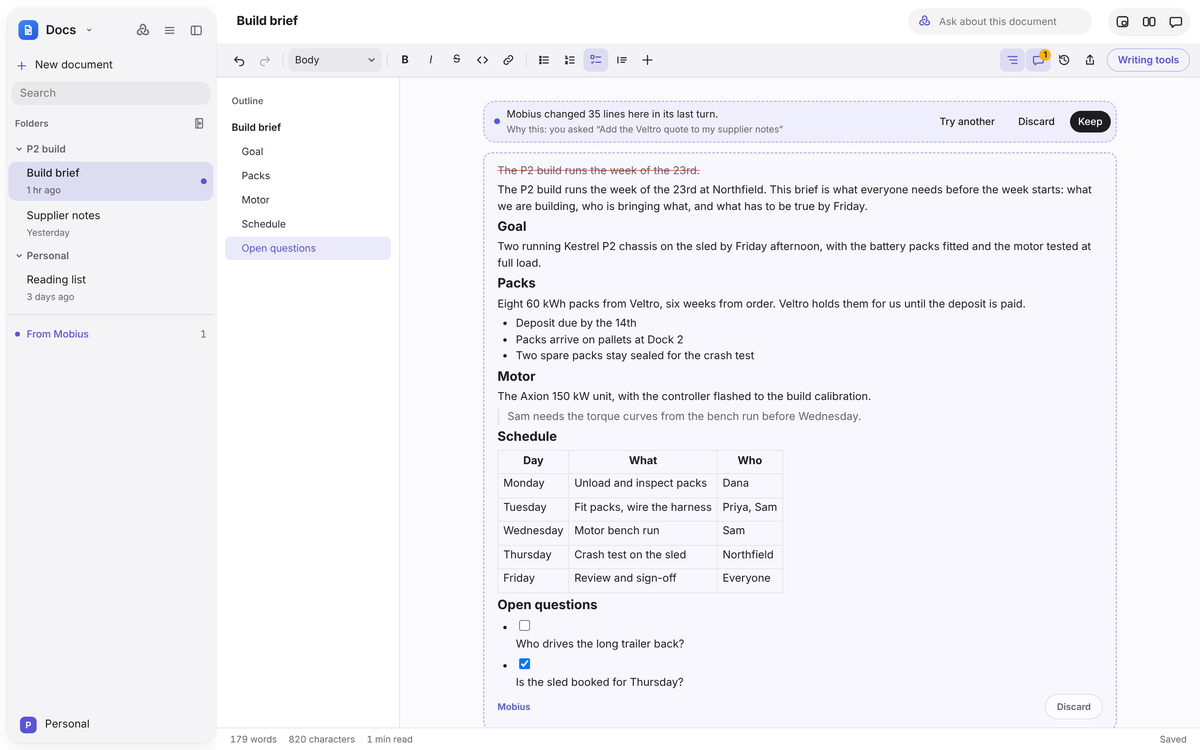
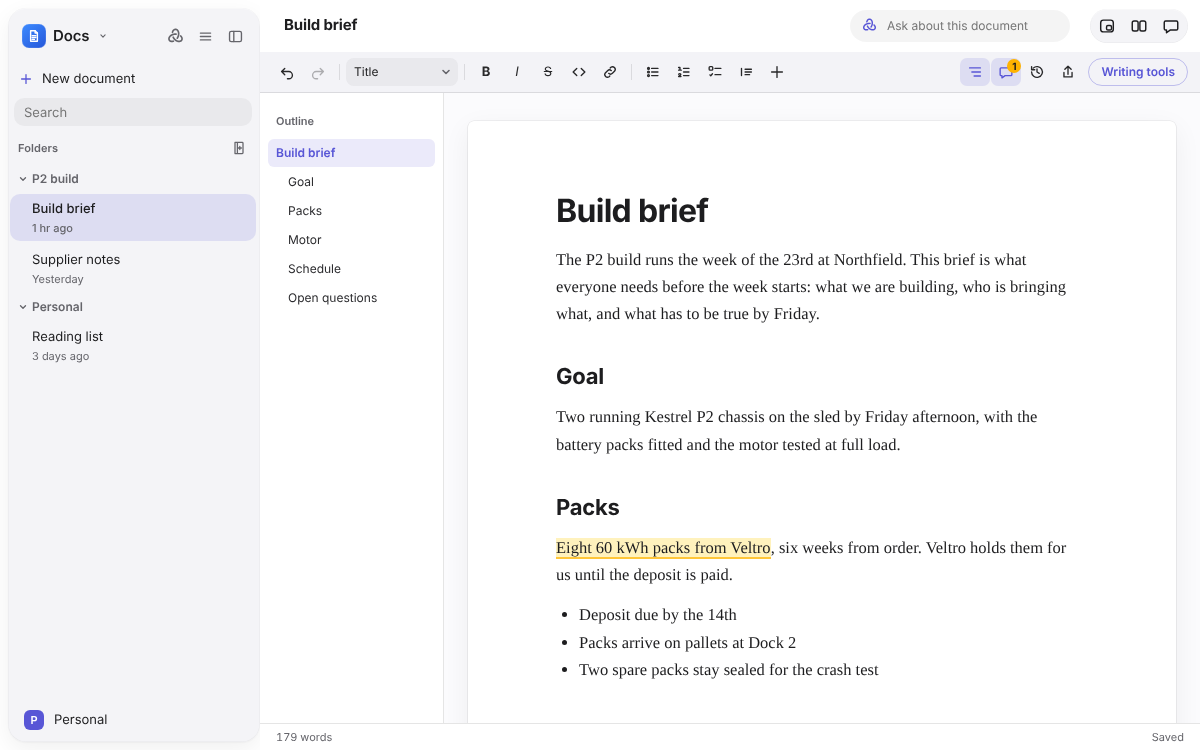
Docs app: open at the top, outline follows the page, one count in the foot, checklists in proposals
- A document opens with the cursor at its top, so the outline and toolbar no longer
  speak of its last heading; a change from Mobius keeps the cursor where it was.
- The outline marks the heading in view as the page scrolls, is slimmer, and folds
  away when there is no room.
- The foot shows one count at a time (words, characters, reading time), as in Pages.
- Checklists in Mobius's proposals draw the box beside its words.
- README screenshot and docs/apps updated.

Claude-Session: https://claude.ai/code/session_01VRGwo9t5tEbLhRtkFMEjKg

diff --git a/apps/desktop/src/Docs.tsx b/apps/desktop/src/Docs.tsx
@@ -28,7 +28,7 @@ import { CommentComposer, CommentList, commentLine, useNoteComments } from './No
 import { NoteHistory, dayOf } from './NoteHistory';
 import { copyFormatted, copyText, pageAsHtml } from './note-share';
 import { linkTo, pageOfLink, pagesMatching } from './note-links';
-import { docStats, activeHeading } from './docs-view';
+import { COUNT_ORDER, countLabel, docStats, headingInView, type CountShown } from './docs-view';
 import { ContextMenu, type ContextMenuItem } from './ContextMenu';
 import './docs.css';
 
@@ -74,6 +74,11 @@ const STYLES = [
 /** Whether the outline shows beside the page. Per device; shown unless hidden. */
 const OUTLINE_KEY = 'mobius.docs.outline';
 const readOutline = () => { try { return window.localStorage.getItem(OUTLINE_KEY) !== '0'; } catch { return true; } };
+
+/** What the foot counts, one at a time as in Pages: a click shows the next. Per device. */
+const COUNT_NEXT: Record<CountShown, string> = { words: 'characters', characters: 'reading time', minutes: 'words' };
+const COUNT_KEY = 'mobius.docs.count';
+const readCount = (): CountShown => { try { const v = window.localStorage.getItem(COUNT_KEY); return COUNT_ORDER.includes(v as CountShown) ? v as CountShown : 'words'; } catch { return 'words'; } };
 
 /** The words open comments are about, marked in the page. `quotes` is read when the plugin is told to look again. */
 const commentKey = new PluginKey<DecorationSet>('doc-comments');
@@ -389,32 +394,65 @@ export function DocEditor({ docs, autoFocus = true, review, onTool, onComments, 
     onBlur: () => setSelection(null),
   });
   // The document's text, from the store: put into the editor when it did not come from the editor itself.
+  // The document the cursor was last placed in: a document just opened starts at its top, as Pages opens one; the same
+  // document changed from elsewhere (by Mobius) keeps the cursor about where it was, so the page does not jump.
+  const placed = useRef<string | null>(null);
   useEffect(() => {
     if (!editor || editor.isDestroyed || docs.text === known.current) return;
     known.current = docs.text;
+    const opened = placed.current !== path;
+    const was = editor.state.selection.from;
+    const hadFocus = editor.view.hasFocus();
     editor.chain().setMeta('mobius-load', true).setContent(docs.text, { contentType: 'markdown', emitUpdate: false }).run();
-    // Not while a dialog is open (the launcher): a page that loads late must not take the keys from it.
-    if (autoFocus && !document.querySelector('dialog[open]')) {
-      // A new document: its title is chosen, so what is typed first names it.
-      const at = untitledHeading(editor);
-      if (at) editor.chain().focus().setTextSelection(at).run(); else editor.commands.focus('end');
+    placed.current = path;
+    if (opened) {
+      // At the top, focused or not, so the outline and the toolbar speak of the start of the document.
+      editor.view.dispatch(editor.state.tr.setSelection(TextSelection.atStart(editor.state.doc)).setMeta('mobius-load', true).setMeta('addToHistory', false));
+      section.current?.querySelector('.doc-scroll')?.scrollTo({ top: 0 });
     }
+    // Not while a dialog is open (the launcher): a page that loads late must not take the keys from it.
+    if (!autoFocus || document.querySelector('dialog[open]')) return;
+    // A new document: its title is chosen, so what is typed first names it.
+    const at = untitledHeading(editor);
+    if (at) editor.chain().focus().setTextSelection(at).run();
+    else if (opened) editor.chain().focus('start', { scrollIntoView: false }).run();
+    else if (hadFocus) editor.chain().focus(undefined, { scrollIntoView: false }).setTextSelection(Math.max(1, Math.min(was, editor.state.doc.content.size - 1))).run();
   }, [editor, docs.text, path]); // eslint-disable-line react-hooks/exhaustive-deps
   const quoteKey = quotesNow.current.join('\u0000');
   useEffect(() => { if (editor && !editor.isDestroyed) editor.view.dispatch(editor.state.tr.setMeta(commentKey, true)); }, [editor, quoteKey]);
   const view = useEditorState({
     editor,
     selector: ({ editor: e }) => {
-      if (!e) return { outline: [] as ReturnType<typeof headingsOf>, at: 0, chosen: '' };
+      if (!e) return { outline: [] as ReturnType<typeof headingsOf>, chosen: '' };
       const { from, to, empty } = e.state.selection;
-      return { outline: headingsOf(e), at: from, chosen: empty ? '' : e.state.doc.textBetween(from, to, ' ') };
+      return { outline: headingsOf(e), chosen: empty ? '' : e.state.doc.textBetween(from, to, ' ') };
     },
-  }) ?? { outline: [], at: 0, chosen: '' };
+  }) ?? { outline: [], chosen: '' };
   const outline = view.outline;
-  const current = activeHeading(outline, view.at);
+  // The heading the outline marks: the one whose part of the document is in view, followed as the page scrolls.
+  const [scroller, setScroller] = useState<HTMLDivElement | null>(null);
+  const [current, setCurrent] = useState(-1);
+  useEffect(() => {
+    if (!scroller || !editor) return undefined;
+    const look = () => {
+      if (editor.isDestroyed) return;
+      const box = scroller.getBoundingClientRect();
+      const tops = outline.map((h) => {
+        const el = editor.view.nodeDOM(h.pos);
+        return el instanceof HTMLElement ? el.getBoundingClientRect().top - box.top : Number.POSITIVE_INFINITY;
+      });
+      const atEnd = scroller.scrollHeight - scroller.scrollTop - scroller.clientHeight < 2 && scroller.scrollTop > 0;
+      setCurrent(headingInView(tops, scroller.clientHeight, atEnd));
+    };
+    look();
+    scroller.addEventListener('scroll', look, { passive: true });
+    return () => scroller.removeEventListener('scroll', look);
+  }, [scroller, editor, outline]);
   const stats = useMemo(() => docStats(docs.text), [docs.text]);
   const chosenWords = view.chosen ? countWords(view.chosen) : 0;
 
+  const [count, setCount] = useState<CountShown>(readCount);
+  const nextCount = () => setCount((c) => { const next = COUNT_ORDER[(COUNT_ORDER.indexOf(c) + 1) % COUNT_ORDER.length]!; try { window.localStorage.setItem(COUNT_KEY, next); } catch { /* Not kept. */ } return next; });
   const [outlineOpen, setOutlineOpen] = useState(readOutline);
   const toggleOutline = () => setOutlineOpen((o) => { try { window.localStorage.setItem(OUTLINE_KEY, o ? '0' : '1'); } catch { /* Not kept. */ } return !o; });
   const openComments = commentState.comments.filter((c) => !c.resolved).length;
@@ -664,7 +702,7 @@ export function DocEditor({ docs, autoFocus = true, review, onTool, onComments, 
               ))}
             </nav>
           )}
-          <div className="doc-scroll">
+          <div className="doc-scroll" ref={setScroller}>
             {restored && (
               <div className="note-restored doc-banner" role="status">
                 <span>Restored the version from {restored.label}.</span>
@@ -717,9 +755,7 @@ export function DocEditor({ docs, autoFocus = true, review, onTool, onComments, 
         {...(onTool ? { onAsk: (quote: string, text: string) => onTool('comment', commentLine({ id: '', quote, text, by: 'you', whenMs: 0, resolved: false }, [])) } : {})} />}
       {note && <div className="doc-toast" role="status"><span>{note}</span><button type="button" className="review-btn" onClick={() => setNote(null)}>OK</button></div>}
       <footer className="doc-status">
-        <span>{chosenWords ? `${chosenWords} of ${stats.words} words` : stats.words === 1 ? '1 word' : `${stats.words} words`}</span>
-        <span>{stats.characters === 1 ? '1 character' : `${stats.characters} characters`}</span>
-        <span>{stats.minutes} min read</span>
+        <button type="button" className="doc-count-btn" title={`Show ${COUNT_NEXT[count]} instead`} onClick={nextCount}>{countLabel(count, stats, chosenWords)}</button>
         {adding > 0 && <span>Adding {adding === 1 ? 'a file' : `${adding} files`}…</span>}
         <span className="spacer" />
         <span className="doc-saved" data-state={docs.status}>{saving}</span>

diff --git a/apps/desktop/src/docs.css b/apps/desktop/src/docs.css
@@ -67,7 +67,7 @@
 .doc-link-folder { margin-left: auto; font-size: var(--fs-xs); opacity: 0.7; }
 
 /* The outline: the heading you are in is marked. */
-.doc-editor .doc-outline { flex-basis: 220px; padding: 20px 10px; border-right: 0.5px solid var(--hairline, var(--line)); background: var(--bg); }
+.doc-editor .doc-outline { flex-basis: 184px; padding: 20px 8px; border-right: 0.5px solid var(--hairline, var(--line)); background: var(--bg); }
 .doc-editor .doc-outline-title { padding: 0 8px 8px; text-transform: none; }
 .doc-editor .doc-outline-item { position: relative; padding-top: 5px; padding-bottom: 5px; border-radius: 6px; color: color-mix(in srgb, var(--ink) 80%, var(--muted)); white-space: nowrap; overflow: hidden; text-overflow: ellipsis; }
 .doc-editor .doc-outline-item[data-level="1"] { color: var(--ink); }
@@ -90,8 +90,10 @@
 }
 @container (max-width: 900px) {
   .doc-editor .doc-page { padding: 48px 48px 72px; }
-  .doc-editor .doc-outline { flex-basis: 170px; }
+  .doc-editor .doc-outline { flex-basis: 156px; }
 }
+/* Not enough room for the page and its outline: the outline folds away, and comes back when there is room. */
+@container (max-width: 760px) { .doc-editor .doc-outline { display: none; } }
 
 /* The bar on chosen words, and what was just done. */
 .doc-selection { border: 0.5px solid var(--hairline, var(--line)); box-shadow: 0 8px 28px rgba(0, 0, 0, 0.14), 0 1px 3px rgba(0, 0, 0, 0.08); }
@@ -121,3 +123,16 @@
   .doc-paper .doc-page { padding: 0; min-height: 0; color: #000; }
   .doc-paper .note-commented { background: none; border: 0; }
 }
+
+/* The count in the foot: one at a time, a click shows the next (words, characters, reading time). */
+.doc-editor .doc-count-btn { margin: -2px -6px; padding: 2px 6px; border: 0; border-radius: 5px; background: none; color: inherit; font: inherit; cursor: default; }
+.doc-editor .doc-count-btn:hover { background: var(--soft); }
+
+/* Checklists in Mobius's proposals, drawn as the page draws them: the box beside its words. */
+.doc-proposal ul[data-type="taskList"] { list-style: none; padding-left: 2px; }
+.doc-proposal ul[data-type="taskList"] li { display: flex; gap: 8px; align-items: flex-start; }
+.doc-proposal ul[data-type="taskList"] li > label { flex: none; margin-top: 3px; }
+.doc-proposal ul[data-type="taskList"] li > div { flex: 1; min-width: 0; }
+.doc-proposal ul[data-type="taskList"] input { appearance: none; width: 14px; height: 14px; margin: 0; border-radius: 50%; border: 1.5px solid var(--muted); display: grid; place-items: center; pointer-events: none; }
+.doc-proposal ul[data-type="taskList"] input:checked { background: var(--accent); border-color: var(--accent); }
+.doc-proposal ul[data-type="taskList"] input:checked::after { content: ""; width: 6px; height: 3px; margin-top: -2px; border: solid var(--on-accent); border-width: 0 0 1.6px 1.6px; transform: rotate(-45deg); }

diff --git a/apps/desktop/src/docs-view.test.ts b/apps/desktop/src/docs-view.test.ts
@@ -1,5 +1,5 @@
 import { describe, expect, it } from 'vitest';
-import { activeHeading, docStats, readableText } from './docs-view';
+import { countLabel, docStats, headingInView, readableText } from './docs-view';
 
 describe('what a document counts', () => {
   it('counts the words a reader sees, not the Markdown around them', () => {
@@ -15,11 +15,29 @@ describe('what a document counts', () => {
 });
 
 describe('the outline', () => {
-  it('marks the heading the cursor is under', () => {
-    const outline = [{ pos: 0 }, { pos: 40 }, { pos: 90 }];
-    expect(activeHeading(outline, 0)).toBe(0);
-    expect(activeHeading(outline, 60)).toBe(1);
-    expect(activeHeading(outline, 500)).toBe(2);
-    expect(activeHeading([{ pos: 10 }], 2)).toBe(-1);
+  it('marks the heading whose part is in view, as the page scrolls', () => {
+    // Headings 0, 300 and 900 pixels from the top of an 800-pixel view: the title is marked.
+    expect(headingInView([0, 300, 900], 800, false)).toBe(0);
+    // Scrolled so the second heading is near the top.
+    expect(headingInView([-400, 100, 700], 800, false)).toBe(1);
+    // Before the first heading reaches the top, the first is still marked.
+    expect(headingInView([120, 600], 800, false)).toBe(0);
+    // At the end of the document, the last heading that shows is marked, though it never reaches the top.
+    expect(headingInView([-900, -200, 650], 800, true)).toBe(2);
+    expect(headingInView([], 800, false)).toBe(-1);
+  });
+});
+
+describe('the count in the foot', () => {
+  const stats = { words: 120, characters: 640, minutes: 1 };
+  it('shows one count at a time', () => {
+    expect(countLabel('words', stats)).toBe('120 words');
+    expect(countLabel('characters', stats)).toBe('640 characters');
+    expect(countLabel('minutes', stats)).toBe('1 min read');
+    expect(countLabel('words', { words: 1, characters: 4, minutes: 1 })).toBe('1 word');
+  });
+  it('shows chosen words as part of the whole, unless they are all of it', () => {
+    expect(countLabel('words', stats, 12)).toBe('12 of 120 words');
+    expect(countLabel('words', { words: 1, characters: 8, minutes: 1 }, 1)).toBe('1 word');
   });
 });

diff --git a/apps/desktop/src/docs-view.ts b/apps/desktop/src/docs-view.ts
@@ -22,9 +22,27 @@ export function docStats(markdown: string): { words: number; characters: number;
   return { words, characters, minutes: Math.max(1, Math.round(words / 230)) };
 }
 
-/** Which heading the cursor is under: the last one that starts at or before it, or -1 before the first. */
-export function activeHeading(outline: readonly { pos: number }[], at: number): number {
-  let found = -1;
-  outline.forEach((h, i) => { if (h.pos <= at) found = i; });
+/**
+ * Which heading's part of the document is in view, from each heading's top measured from the top of the view: the last
+ * one that has reached the top quarter of the view (the first heading while none has). At the end of the document the
+ * last heading that shows is marked, since a short last part can never reach the top.
+ */
+export function headingInView(tops: readonly number[], height: number, atEnd: boolean): number {
+  if (!tops.length) return -1;
+  const line = atEnd ? height - 24 : Math.max(48, height / 4);
+  let found = 0;
+  tops.forEach((top, i) => { if (top <= line) found = i; });
   return found;
+}
+
+/** What the foot of a document counts, one at a time as in Pages. */
+export type CountShown = 'words' | 'characters' | 'minutes';
+export const COUNT_ORDER: CountShown[] = ['words', 'characters', 'minutes'];
+
+/** The foot's count. Chosen words show as part of the whole, unless they are all of it. */
+export function countLabel(shown: CountShown, stats: { words: number; characters: number; minutes: number }, chosen = 0): string {
+  const plural = (n: number, one: string) => `${n} ${one}${n === 1 ? '' : 's'}`;
+  if (shown === 'characters') return plural(stats.characters, 'character');
+  if (shown === 'minutes') return `${stats.minutes} min read`;
+  return chosen > 0 && chosen < stats.words ? `${chosen} of ${plural(stats.words, 'word')}` : plural(stats.words, 'word');
 }

diff --git a/docs/apps/write-and-plan.md b/docs/apps/write-and-plan.md
@@ -25,7 +25,9 @@ Longer documents, with an outline and comments.
 ![The Docs app in Mobius](../readme/apps/docs.png)
 
 - **A page to write on**: headings, lists, checklists, tables, pictures and links to other documents, kept as Markdown.
-- **The outline** of headings sits beside the page; hide it if you prefer.
+- **The outline** of headings sits beside the page and marks the part you are looking at as you scroll. It folds away
+  when the window is narrow; hide it if you prefer. A document opens at its top.
+- **The count** at the foot shows words; click it for characters or reading time. Select some text to see its words.
 - **Comments** in the margin. **Ask Mobius** on a comment and its answer comes back in the thread; open comments are
   sent along with the document when you ask Mobius about it.
 - **Mobius's writing tools** work on the selection or the whole document. What Mobius changes comes back as
